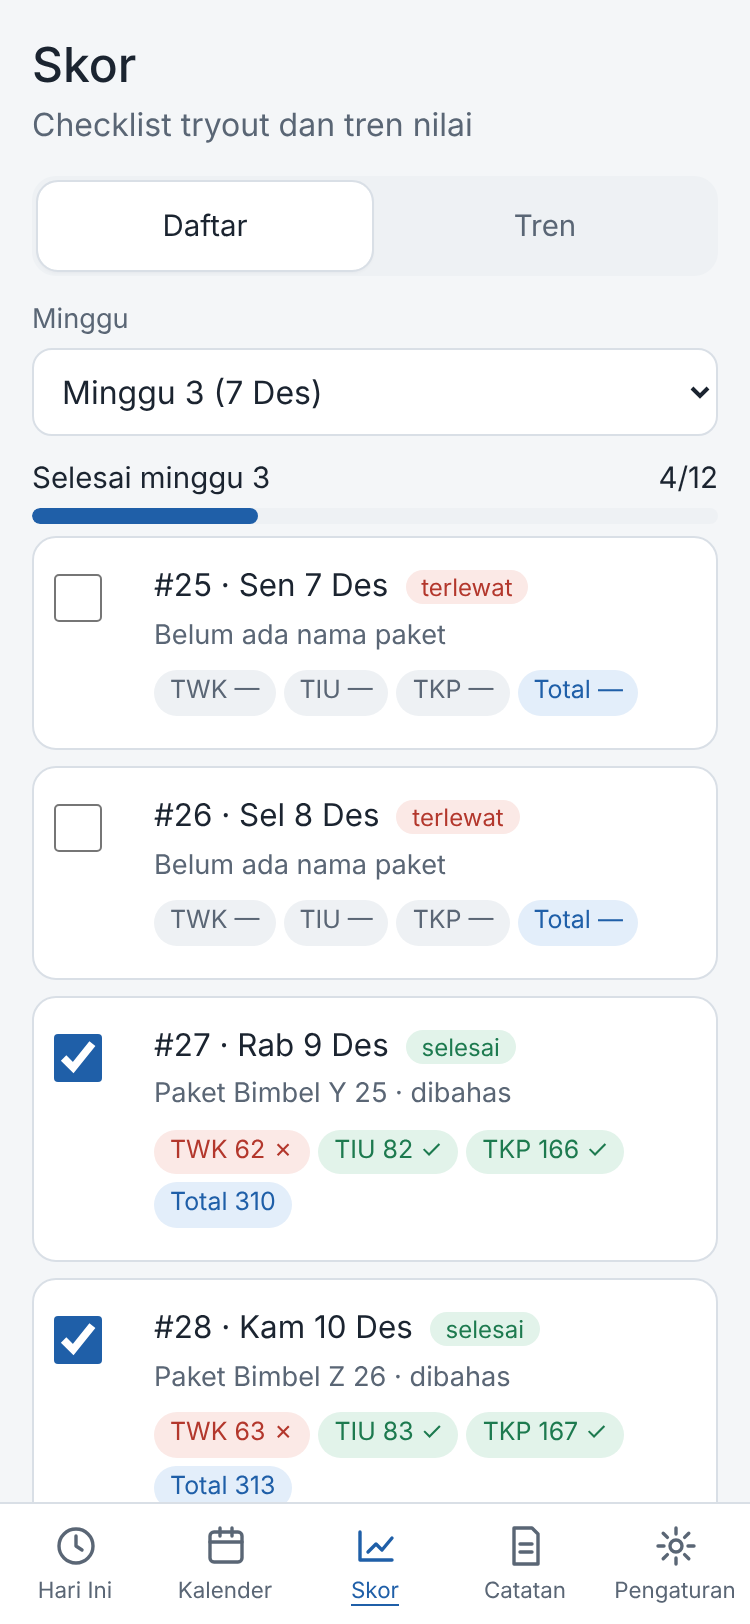
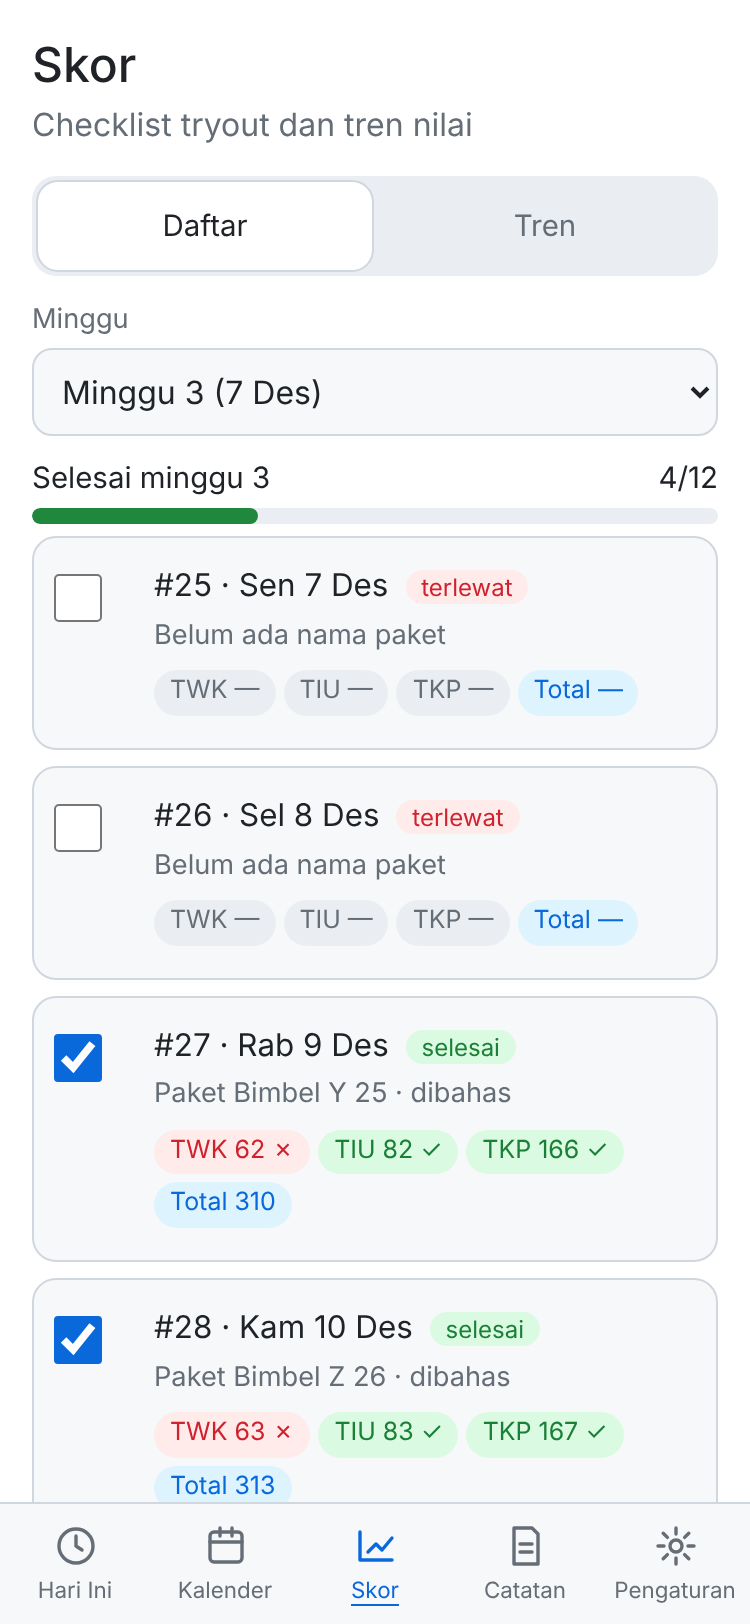
Tema warna gaya GitHub (gelap dan terang), semua warna solid
Claude-Session: https://claude.ai/code/session_019qCErXsvhHESNdYEa2xMZr

diff --git a/styles.css b/styles.css
@@ -1,20 +1,26 @@
+/* Palet gaya GitHub. Semua warna solid: tanpa transparansi, efek kabur, atau gradasi. */
 :root {
-  --bg: #f4f6f8; --surface: #ffffff; --surface2: #eef1f4; --text: #1b2430; --muted: #5a6675; --line: #d9dfe6;
-  --accent: #1f5fa8; --accent-bg: #e3eefa; --ok: #1d7a4f; --ok-bg: #e2f3ea; --bad: #b3372c; --bad-bg: #fbe9e6; --warn: #8a5a00; --warn-bg: #fdf1d8;
-  --shadow: 0 1px 2px rgba(20, 30, 45, .06);
+  --bg: #ffffff; --surface: #f6f8fa; --surface2: #eaeef2; --text: #1f2328; --muted: #656d76; --line: #d0d7de;
+  --accent: #0969da; --accent-bg: #ddf4ff; --primary: #1f883d; --on-primary: #ffffff;
+  --ok: #1a7f37; --ok-bg: #dafbe1; --bad: #cf222e; --bad-bg: #ffebe9; --warn: #9a6700; --warn-bg: #fff8c5;
+  --backdrop: #57606a; --toast-bg: #1f2328; --toast-fg: #ffffff;
   color-scheme: light;
 }
 @media (prefers-color-scheme: dark) {
   :root:not([data-theme="light"]) {
-    --bg: #0f1720; --surface: #172230; --surface2: #1e2c3c; --text: #e6ebf1; --muted: #9aa7b6; --line: #2b3a4c;
-    --accent: #6aa8ee; --accent-bg: #19324e; --ok: #55c28c; --ok-bg: #153626; --bad: #f08a7e; --bad-bg: #40201c; --warn: #e5b45a; --warn-bg: #3a2d12;
-    --shadow: none; color-scheme: dark;
+    --bg: #0d1117; --surface: #161b22; --surface2: #21262d; --text: #e6edf3; --muted: #8b949e; --line: #30363d;
+    --accent: #2f81f7; --accent-bg: #10243f; --primary: #238636; --on-primary: #ffffff;
+    --ok: #3fb950; --ok-bg: #12261e; --bad: #f85149; --bad-bg: #2d1316; --warn: #d29922; --warn-bg: #272115;
+    --backdrop: #010409; --toast-bg: #e6edf3; --toast-fg: #0d1117;
+    color-scheme: dark;
   }
 }
 :root[data-theme="dark"] {
-  --bg: #0f1720; --surface: #172230; --surface2: #1e2c3c; --text: #e6ebf1; --muted: #9aa7b6; --line: #2b3a4c;
-  --accent: #6aa8ee; --accent-bg: #19324e; --ok: #55c28c; --ok-bg: #153626; --bad: #f08a7e; --bad-bg: #40201c; --warn: #e5b45a; --warn-bg: #3a2d12;
-  --shadow: none; color-scheme: dark;
+  --bg: #0d1117; --surface: #161b22; --surface2: #21262d; --text: #e6edf3; --muted: #8b949e; --line: #30363d;
+  --accent: #2f81f7; --accent-bg: #10243f; --primary: #238636; --on-primary: #ffffff;
+  --ok: #3fb950; --ok-bg: #12261e; --bad: #f85149; --bad-bg: #2d1316; --warn: #d29922; --warn-bg: #272115;
+  --backdrop: #010409; --toast-bg: #e6edf3; --toast-fg: #0d1117;
+  color-scheme: dark;
 }
 * { box-sizing: border-box; }
 html { -webkit-text-size-adjust: 100%; }
@@ -31,7 +37,7 @@ small, .sub { color: var(--muted); font-size: .85rem; font-weight: 400; }
 .page-h { margin: 4px 0 14px; } .page-h p { color: var(--muted); margin: 2px 0 0; }
 .sec { margin: 0 0 8px; font-size: 1rem; }
 
-.card { background: var(--surface); border: 1px solid var(--line); border-radius: 14px; padding: 14px; margin-bottom: 12px; box-shadow: var(--shadow); }
+.card { background: var(--surface); border: 1px solid var(--line); border-radius: 14px; padding: 14px; margin-bottom: 12px; }
 .card.empty { color: var(--muted); } .card.danger { border-color: var(--bad); }
 .now-card { border-color: var(--accent); background: var(--accent-bg); }
 .two { display: grid; grid-template-columns: 1fr 1fr; gap: 12px; margin-bottom: 10px; }
@@ -40,7 +46,7 @@ small, .sub { color: var(--muted); font-size: .85rem; font-weight: 400; }
 .cd { font-variant-numeric: tabular-nums; font-size: 1.1rem; color: var(--accent); white-space: nowrap; }
 
 .bar { height: 8px; background: var(--surface2); border-radius: 99px; overflow: hidden; margin: 4px 0 6px; }
-.bar > span { display: block; height: 100%; background: var(--accent); border-radius: 99px; }
+.bar > span { display: block; height: 100%; background: var(--primary); border-radius: 99px; }
 
 .warn { background: var(--warn-bg); color: var(--text); border: 1px solid var(--warn); border-radius: 12px; padding: 10px 12px; margin-bottom: 10px; font-size: .92rem; }
 .warn.bad { background: var(--bad-bg); border-color: var(--bad); }
@@ -50,9 +56,7 @@ small, .sub { color: var(--muted); font-size: .85rem; font-weight: 400; }
 
 .btn { display: inline-flex; align-items: center; justify-content: center; min-height: 44px; padding: 8px 16px; border: 1px solid var(--line); border-radius: 12px; background: var(--surface); color: var(--text); font: inherit; font-size: .95rem; cursor: pointer; text-decoration: none; -webkit-tap-highlight-color: transparent; }
 .btn:active { background: var(--surface2); }
-.btn.primary { background: var(--accent); border-color: var(--accent); color: #fff; }
-:root[data-theme="dark"] .btn.primary { color: #0b1420; }
-@media (prefers-color-scheme: dark) { :root:not([data-theme="light"]) .btn.primary { color: #0b1420; } }
+.btn.primary { background: var(--primary); border-color: var(--primary); color: var(--on-primary); }
 .btn.bad { color: var(--bad); border-color: var(--bad); }
 .btn.small { min-height: 44px; padding: 6px 12px; font-size: .85rem; }
 .btn.block { display: flex; width: 100%; margin-bottom: 10px; }
@@ -73,7 +77,7 @@ textarea { min-height: 120px; resize: vertical; }
 
 .seg { display: flex; background: var(--surface2); border-radius: 12px; padding: 3px; gap: 3px; margin-bottom: 12px; }
 .seg button { flex: 1; min-height: 44px; border: 0; background: transparent; color: var(--muted); font: inherit; font-size: .92rem; border-radius: 10px; cursor: pointer; }
-.seg button[aria-selected="true"], .seg button[aria-pressed="true"], .seg button[aria-checked="true"] { background: var(--surface); color: var(--text); box-shadow: var(--shadow); outline: 1px solid var(--line); }
+.seg button[aria-selected="true"], .seg button[aria-pressed="true"], .seg button[aria-checked="true"] { background: var(--bg); color: var(--text); outline: 1px solid var(--line); }
 
 /* timeline */
 .timeline { list-style: none; margin: 0 0 12px; padding: 0; }
@@ -84,11 +88,10 @@ textarea { min-height: 120px; resize: vertical; }
 .ev.k-tryout { border-left-color: var(--accent); } .ev.k-bahas { border-left-color: var(--ok); }
 .ev.k-santai, .ev.k-istirahat, .ev.k-tidur { background: var(--surface2); border-left-color: var(--line); }
 .ev.k-baca { border-left-color: var(--warn); }
-.ev.past { opacity: .55; }
-.ev.now { border-color: var(--accent); border-left-color: var(--accent); background: var(--accent-bg); box-shadow: 0 0 0 1px var(--accent); }
+.ev.past { background: var(--bg); color: var(--muted); } .ev.past .lbl { color: var(--muted); }
+.ev.now { border-color: var(--accent); border-left-color: var(--accent); background: var(--accent-bg); outline: 1px solid var(--accent); }
 .ev.conflict { border-color: var(--bad); }
-.tag { display: inline-block; font-size: .72rem; padding: 1px 8px; border-radius: 99px; background: var(--accent); color: #fff; vertical-align: middle; font-weight: 400; }
-:root[data-theme="dark"] .tag { color: #0b1420; } @media (prefers-color-scheme: dark) { :root:not([data-theme="light"]) .tag { color: #0b1420; } }
+.tag { display: inline-block; font-size: .72rem; padding: 1px 8px; border-radius: 99px; background: var(--accent); color: #ffffff; vertical-align: middle; font-weight: 400; }
 .tag.bad { background: var(--bad); }
 
 /* chip tryout */
@@ -148,7 +151,7 @@ table.avg { width: 100%; border-collapse: collapse; font-size: .9rem; font-varia
 
 /* sheet */
 dialog { border: 0; padding: 0; color: var(--text); background: var(--surface); }
-dialog::backdrop { background: rgba(10, 16, 24, .55); }
+dialog::backdrop { background: var(--backdrop); }
 #sheet { width: 100%; max-width: 640px; max-height: 92dvh; margin: auto auto 0; border-radius: 18px 18px 0 0; overflow: auto; }
 #sheet-body { padding: 16px 16px calc(24px + env(safe-area-inset-bottom)); }
 .sh-h { display: flex; justify-content: space-between; align-items: flex-start; gap: 10px; margin-bottom: 8px; }
@@ -156,8 +159,8 @@ dialog::backdrop { background: rgba(10, 16, 24, .55); }
 #confirm { width: calc(100% - 32px); max-width: 420px; border-radius: 16px; margin: auto; padding: 18px; }
 #confirm form { display: block; }
 
-#toast { position: fixed; left: 16px; right: 16px; bottom: calc(86px + env(safe-area-inset-bottom)); max-width: 560px; margin: 0 auto; background: var(--text); color: var(--bg); padding: 10px 14px; border-radius: 12px; font-size: .9rem; opacity: 0; pointer-events: none; transform: translateY(8px); transition: opacity .2s, transform .2s; z-index: 50; }
-#toast.show { opacity: 1; transform: none; }
+#toast { position: fixed; left: 16px; right: 16px; bottom: calc(86px + env(safe-area-inset-bottom)); max-width: 560px; margin: 0 auto; background: var(--toast-bg); color: var(--toast-fg); padding: 10px 14px; border-radius: 12px; font-size: .9rem; visibility: hidden; pointer-events: none; transform: translateY(8px); z-index: 50; }
+#toast.show { visibility: visible; transform: none; }
 dialog[open] ~ #toast { z-index: 1; }
 
 nav.bottom { position: fixed; left: 0; right: 0; bottom: 0; display: grid; grid-template-columns: repeat(5, 1fr); background: var(--surface); border-top: 1px solid var(--line); padding-bottom: env(safe-area-inset-bottom); z-index: 20; }

diff --git a/tests/e2e.test.js b/tests/e2e.test.js
@@ -292,6 +292,42 @@ function seedState() {
     await ctx.close();
   }
 
+  // ---------------------------------------------------------------- Tema GitHub, warna solid
+  console.log('Tema warna gaya GitHub (solid, tanpa transparansi)');
+  {
+    const css = fs.readFileSync(path.join(ROOT, 'styles.css'), 'utf8');
+    check('CSS tanpa rgba/hsla, opacity, gradient, blur, backdrop-filter', !/rgba\(|hsla\(|opacity|gradient|blur|backdrop-filter|#[0-9a-fA-F]{8}\b/.test(css));
+    const { ctx, page } = await open('2026-11-23T11:30:00Z', { hash: '#/pengaturan' });
+    const col = async () => page.evaluate(() => { const g = (el, p) => getComputedStyle(el)[p]; const b = document.body, c = document.querySelector('.card'); return { bg: g(b, 'backgroundColor'), card: g(c, 'backgroundColor'), line: g(c, 'borderTopColor'), text: g(b, 'color'), meta: [...document.querySelectorAll('meta[name=theme-color]')].map(m => m.content) }; });
+    await page.click('[data-theme=dark]');
+    const d = await col();
+    check('gelap: latar #0d1117, kartu #161b22, border #30363d, teks #e6edf3', d.bg === 'rgb(13, 17, 23)' && d.card === 'rgb(22, 27, 34)' && d.line === 'rgb(48, 54, 61)' && d.text === 'rgb(230, 237, 243)', d);
+    check('gelap: meta theme-color #0d1117', d.meta.every(x => x === '#0d1117'), d.meta);
+    await page.click('[data-theme=light]');
+    const l = await col();
+    check('terang: latar #ffffff, kartu #f6f8fa, border #d0d7de, teks #1f2328', l.bg === 'rgb(255, 255, 255)' && l.card === 'rgb(246, 248, 250)' && l.line === 'rgb(208, 215, 222)' && l.text === 'rgb(31, 35, 40)', l);
+    check('terang: meta theme-color #ffffff', l.meta.every(x => x === '#ffffff'), l.meta);
+    const man = await page.evaluate(async () => (await fetch('manifest.webmanifest')).json());
+    check('manifest theme_color dan background_color #0d1117', man.theme_color === '#0d1117' && man.background_color === '#0d1117', man);
+    await page.click('[data-theme=dark]');
+    const alpha = await page.evaluate(() => { const bad = []; document.querySelectorAll('*').forEach(el => { const cs = getComputedStyle(el); ['color', 'backgroundColor', 'borderTopColor', 'outlineColor'].forEach(p => { if (/rgba|\/ ?0?\.\d/.test(cs[p]) && cs[p] !== 'rgba(0, 0, 0, 0)') bad.push(el.tagName + '.' + p + '=' + cs[p]); }); if (parseFloat(cs.opacity) < 1) bad.push(el.tagName + '.opacity'); if (cs.backdropFilter && cs.backdropFilter !== 'none') bad.push('backdrop'); if (/gradient/.test(cs.backgroundImage)) bad.push('gradient'); }); return bad.slice(0, 5); });
+    check('semua elemen: warna solid, opacity 1, tanpa gradien (dibaca dari computed style; latar tanpa warna bawaan dikecualikan)', alpha.length === 0, alpha);
+    await page.emulateMedia({ colorScheme: 'dark' }); await page.click('[data-theme=auto]'); await page.waitForTimeout(80);
+    check('otomatis mengikuti sistem gelap', (await col()).bg === 'rgb(13, 17, 23)');
+    await page.emulateMedia({ colorScheme: 'light' }); await page.waitForTimeout(80);
+    check('otomatis mengikuti sistem terang', (await col()).bg === 'rgb(255, 255, 255)');
+    await ctx.close();
+  }
+
+  {
+    const g = await open('2026-12-12T02:00:00Z', { seed: true, ctx: { colorScheme: 'dark' } });
+    await shot(g.page, '13-gelap-hari-ini-375');
+    await go(g.page, '#/kalender'); await g.page.waitForTimeout(100); await shot(g.page, '14-gelap-kalender-375');
+    await go(g.page, '#/skor'); await g.page.click('[data-tab=tren]'); await shot(g.page, '15-gelap-tren-375');
+    await go(g.page, '#/catatan'); await shot(g.page, '16-gelap-catatan-375');
+    await g.ctx.close();
+  }
+
   // ---------------------------------------------------------------- K16 layout 375 px
   console.log('K16 layout 375 px');
   {

diff --git a/app.js b/app.js
@@ -333,7 +333,7 @@
     var t = state.settings.theme, root = document.documentElement;
     if (t === 'auto') root.removeAttribute('data-theme'); else root.setAttribute('data-theme', t);
     var dark = t === 'dark' || (t === 'auto' && window.matchMedia && window.matchMedia('(prefers-color-scheme: dark)').matches);
-    var m = document.querySelector('meta[name=theme-color]'); if (m) m.setAttribute('content', dark ? '#0f1720' : '#f4f6f8');
+    document.querySelectorAll('meta[name=theme-color]').forEach(function (m) { m.setAttribute('content', dark ? '#0d1117' : '#ffffff'); });
   }
   function afterChange() { save(); }
 
@@ -425,7 +425,7 @@
     else if (day.events.some(function (e) { return e.flex; })) note = ' Hari itu padat; atur jam mulai.';
     toast('Tryout #' + t.n + ' dijadwalkan ' + S.fmtLong(date) + '.' + note);
     renderTryoutSheet();
-    var m2 = document.getElementById('move-msg'); if (m2) m2.textContent = note.trim();
+    var m2 = document.getElementById('move-msg'); if (m2) m2.textContent = 'Dijadwalkan ' + S.fmtLong(date) + '.' + note;
   }
   function saveNote() {
     var sub = document.getElementById('n-sub').value, topic = document.getElementById('n-topic').value.trim(), note = document.getElementById('n-note').value.trim(), err = document.getElementById('n-err');

diff --git a/index.html b/index.html
@@ -5,7 +5,8 @@
   <meta name="viewport" content="width=device-width, initial-scale=1, viewport-fit=cover">
   <title>Tryout SKD</title>
   <meta name="description" content="Pengatur jadwal 120 tryout SKD CPNS: checklist, skor, tren, dan buku soal salah. Bisa offline.">
-  <meta name="theme-color" content="#f4f6f8">
+  <meta name="theme-color" content="#ffffff" media="(prefers-color-scheme: light)">
+  <meta name="theme-color" content="#0d1117" media="(prefers-color-scheme: dark)">
   <link rel="manifest" href="manifest.webmanifest">
   <link rel="icon" href="icons/icon.svg" type="image/svg+xml">
   <link rel="apple-touch-icon" href="icons/apple-touch-icon.png">

diff --git a/README.md b/README.md
@@ -12,7 +12,7 @@ Zona waktu tetap WITA (Asia/Makassar, UTC+8), apa pun zona waktu perangkat.
 - **Kalender**: 10 minggu, status tiap tryout (selesai, hari ini, terjadwal, terlewat, digeser), catatan Natal/Tahun Baru, 7 aturan tetap.
 - **Skor**: checklist per minggu (selesai, nama paket, TWK/TIU/TKP, total otomatis, status pembahasan, lulus/belum per subtes), grafik tren per subtes dan total, rata-rata per minggu, peringatan skor mentok dan paket dobel.
 - **Catatan**: buku soal salah per subtes dan topik, filter, penanda sudah dibaca ulang; pengingat Minggu 19.30.
-- **Pengaturan**: tanggal SKD (default 8 Feb 2027), ambang lulus (default TWK 65, TIU 80, TKP 166), tema terang/gelap/otomatis, notifikasi, ekspor/impor, reset dengan konfirmasi.
+- **Pengaturan**: tanggal SKD (default 8 Feb 2027), ambang lulus (default TWK 65, TIU 80, TKP 166), tema gaya GitHub: gelap (#0d1117), terang (#ffffff), atau otomatis mengikuti sistem; semua warna solid tanpa transparansi, notifikasi, ekspor/impor, reset dengan konfirmasi.
 - **Geser tryout**: ke hari lain di minggu yang sama (Natal Jumat 25 Des 2026 dan Tahun Baru Jumat 1 Jan 2027 sudah ditandai libur).
 
 ## Struktur berkas
@@ -84,7 +84,7 @@ pada pembukaan berikutnya (kadang perlu dua kali buka). Jika mengubah daftar ber
 
 ```bash
 node tests/logic.test.js                          # 32 tes logika, tanpa dependensi
-npm i -D playwright && node tests/e2e.test.js     # 98 pemeriksaan browser (Chromium), menulis screenshot ke screenshots/
+npm i -D playwright && node tests/e2e.test.js     # 107 pemeriksaan browser (Chromium), menulis screenshot ke screenshots/
 ```
 
 Jadwal sudah dicocokkan dengan PDF "Jadwal Tryout Disiplin": templat harian, jumlah per hari, rentang tanggal tiap minggu, catatan Natal/Tahun Baru, dan 7 aturan tetap sama.

diff --git a/BUKTI.md b/BUKTI.md
@@ -1,6 +1,6 @@
 # Bukti pengujian
 
-Hasil mentah: `tests/hasil-uji.txt` (32 tes logika + 98 pemeriksaan browser, 0 gagal). Screenshot di `screenshots/`.
+Hasil mentah: `tests/hasil-uji.txt` (32 tes logika + 107 pemeriksaan browser, 0 gagal). Screenshot di `screenshots/`.
 Browser uji: Chromium (Playwright 1.63), viewport 375×812 (juga 320 dan 1280), zona waktu peramban sengaja `America/Los_Angeles`, jam palsu untuk skenario waktu.
 
 | # | Kriteria | Bukti |
@@ -24,6 +24,7 @@ Browser uji: Chromium (Playwright 1.63), viewport 375×812 (juga 320 dan 1280), 
 | K17 | PWA offline | `e2e`: manifest valid, ikon 200, SW aktif dan mengendalikan halaman, cangkang ter-cache; `setOffline(true)` lalu reload → aplikasi termuat, data ada, kalender, tambah catatan jalan. Screenshot 12 |
 | K18 | Notifikasi | `e2e`: dengan izin (disimulasikan) tepat 5 menit sebelum Tryout 19.00 muncul satu kali; tanpa izin pengingat tetap mati dan aplikasi berfungsi |
 | K19 | Subpath GitHub Pages | `e2e`: server di `/tryout-skd-repo/` → tidak ada 404, SW ter-scope subpath, offline jalan |
+| Tema | Warna gaya GitHub, solid | `e2e`: CSS tanpa rgba/opacity/gradient/blur; computed style gelap = #0d1117/#161b22/#30363d/#e6edf3 dan terang = #ffffff/#f6f8fa/#d0d7de/#1f2328; semua elemen solid (opacity 1, tanpa gradien); meta theme-color dan manifest ikut; mode otomatis mengikuti sistem. Screenshot 13–16 |
 | K20 | Escape HTML | `e2e`: `<img onerror>` dan `<script>` di catatan dan nama paket tampil sebagai teks, tidak dieksekusi |
 
 Tambahan: data localStorage rusak (`{rusak!!`) → aplikasi tetap jalan dengan data baru dan salinan rusak disimpan di `tryoutSkd.v1.rusak`; tanpa galat konsol di semua skenario utama.
